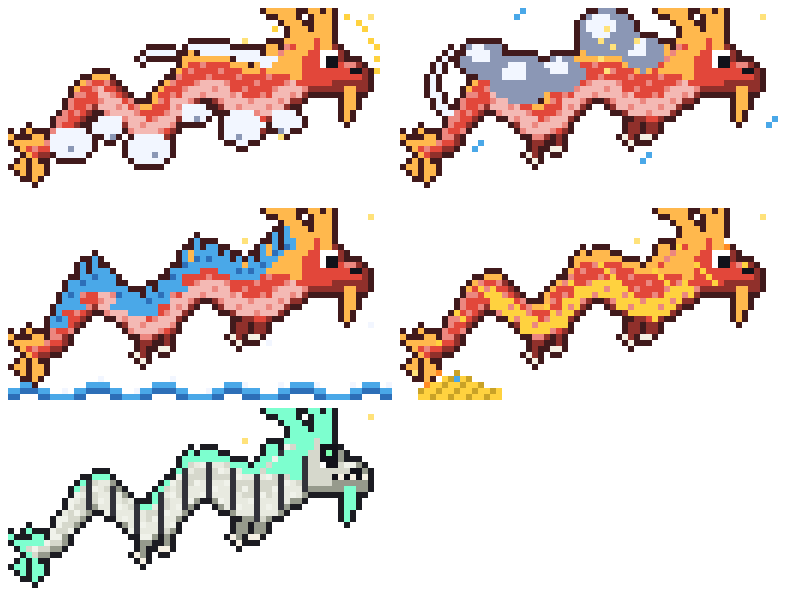
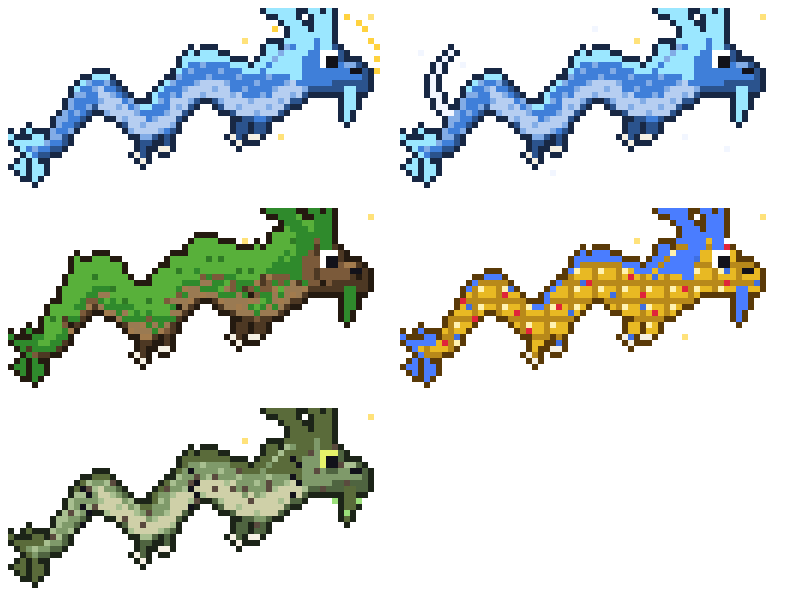
Spiritual wormholes, Earth burrow-and-flower, docs for the reworked final forms

diff --git a/src/RoamWindow.qml b/src/RoamWindow.qml
@@ -333,10 +333,14 @@ PanelWindow {
     else if (mood === "hungry") pool = ["rumble"]
     else if (mood === "playful") pool = flying ? ["zoom", "spin", "loop", "smokering"] : ["zoom", "spin", "smokering"]
     else pool = flying ? ["spin", "loop", "smokering"] : ["spin", "smokering"]
+    if (pet.stage >= 3 && pet.form === "earth" && mood !== "sleepy" && mood !== "hungry") pool = pool.concat(["burrow"])
+    if (pet.stage >= 3 && pet.form === "spiritual" && mood !== "sleepy" && mood !== "hungry") pool = pool.concat(["wormhole", "wormhole"])
     // Tricks you have reacted to before are picked more often (the learning layer).
     judgeTrick()
     lastCtx = pet.learnCtx((posX + spriteW / 2) / Math.max(1, width))
     trick = Learner.TRICKS.indexOf(pool[0]) >= 0 ? Learner.pickTrick(pet.prefs, pool, lastCtx) : pool[0]
+    if (trick === "wormhole") { trick = ""; lastTrick = ""; startWormhole(); return }
+    if (trick === "burrow") { trick = ""; lastTrick = ""; startBurrow(false); return }
     lastTrick = trick; lastTrickEnd = 0; trickLikedYet = false
     trickT = 0
     trickDur = { spin: 0.9, loop: 1.5, zoom: 3.0, yawn: 2.2, rumble: 1.3, smokering: 2.0 }[trick]
@@ -456,6 +460,130 @@ PanelWindow {
       }
     } else { bloatScale = 1; trickRot = 0; trickDx = 0; trickDy = 0; action = "sit"; frame = 0; lastBrainMs = 0 }
   }
+
+  // --- wormholes (Spiritual Dragon): it steps into a grey swirl and comes out somewhere far across the screen ---
+  property int wormPhase: -1           // -1 none | 0 open | 1 going in | 2 switch | 3 coming out | 4 close
+  property real wormT: 0
+  property real portalA: 0             // how open each wormhole is
+  property real portalB: 0
+  property real ax: 0
+  property real ay: 0
+  property real bx: 0
+  property real by: 0
+  function startWormhole() {
+    var margin = 80
+    ax = Math.max(margin, Math.min(width - margin, posX + spriteW / 2 + dir * spriteW * 0.7))
+    ay = Math.max(margin, Math.min(height - margin, posY + spriteH / 2))
+    // the exit is far away: at least 45% of the screen across
+    var far = []
+    for (var i = 0; i < 12; i++) {
+      var x = margin + Math.random() * (width - 2 * margin)
+      if (Math.abs(x - ax) >= width * 0.45) far.push(x)
+    }
+    bx = far.length ? far[Math.floor(Math.random() * far.length)] : (ax < width / 2 ? width - margin : margin)
+    by = height * (0.2 + Math.random() * 0.55)
+    wormPhase = 0; wormT = 0; portalA = 0; portalB = 0; action = "worm"; frame = 0
+    velX = 0; velY = 0; targetX = 0; targetY = 0
+    pet.say(Phrases.pick(["Hold on tight.", "Opening a wormhole...", "I know a shortcut."]))
+  }
+  function cancelWormhole() {
+    if (wormPhase < 0) return
+    wormPhase = -1; portalA = 0; portalB = 0; bloatScale = 1
+  }
+  function stepWorm(dt) {
+    wormT += dt
+    var e = function(u) { u = Math.max(0, Math.min(1, u)); return u * u * (3 - 2 * u) }
+    if (wormPhase === 0) {                                        // the near wormhole opens
+      portalA = e(wormT / 0.55); dir = ax > posX + spriteW / 2 ? 1 : -1
+      if (wormT >= 0.7) { wormPhase = 1; wormT = 0; wx0 = posX; wy0 = posY }
+    } else if (wormPhase === 1) {                                 // it dives into it, shrinking as it goes
+      var u = e(wormT / 1.0)
+      posX = wx0 + (ax - spriteW / 2 - wx0) * u; posY = wy0 + (ay - spriteH / 2 - wy0) * u
+      bloatScale = 1 - 0.86 * u
+      if (wormT >= 1.05) { wormPhase = 2; wormT = 0 }
+    } else if (wormPhase === 2) {                                 // it is gone; the far wormhole opens as the near one closes
+      bloatScale = 0.02
+      posX = bx - spriteW / 2; posY = by - spriteH / 2
+      portalA = 1 - e(wormT / 0.45); portalB = e(wormT / 0.5)
+      dir = bx < width / 2 ? 1 : -1
+      if (wormT >= 0.55) { wormPhase = 3; wormT = 0 }
+    } else if (wormPhase === 3) {                                 // and out it comes, growing back
+      var v = e(wormT / 1.0)
+      bloatScale = 0.14 + 0.86 * v
+      posX = bx - spriteW / 2 + dir * spriteW * 0.3 * v; posY = by - spriteH / 2
+      if (wormT >= 1.05) { wormPhase = 4; wormT = 0; bloatScale = 1; pet.say(Phrases.pick(["Ta-da! Over here!", "That was fun. Again?", "Made it. Nothing to see here."])) }
+    } else if (wormPhase === 4) {
+      portalB = 1 - e(wormT / 0.5)
+      if (wormT >= 0.55) { wormPhase = -1; portalB = 0; action = "sit"; frame = 0; lastBrainMs = 0; nextTrickAt = Date.now() + 25000 + Math.random() * 30000 }
+    }
+    posX = Math.max(-spriteW, Math.min(width, posX)); posY = Math.max(-spriteH, Math.min(height, posY))
+  }
+  property real wx0: 0
+  property real wy0: 0
+
+  // --- burrowing (Earth Dragon): it spins in on itself, dives straight down and sleeps underground; a flower
+  //     marks the spot, and withers when it comes up somewhere else ---
+  property int burrowPhase: -1         // -1 none | 0 spin | 1 dive | 2 underground | 3 erupt | 4 flower withers
+  property real burrowT: 0
+  property bool burrowRest: false      // true: stay under until its rest is over
+  property bool burrowHidden: false
+  property bool flowerOn: false
+  property bool flowerWither: false
+  property real flowerX: 0
+  property real bx0: 0
+  property real by0: 0
+  property real exitX: 0
+  function startBurrow(forRest) {
+    burrowRest = forRest; burrowPhase = 0; burrowT = 0; burrowHidden = false; action = "burrow"; frame = 0
+    velX = 0; velY = 0; targetX = 0; targetY = 0; bx0 = posX; by0 = posY
+    pet.say(Phrases.pick(["Time to dig in.", "Down I go.", "Back to the roots."]))
+  }
+  function cancelBurrow() {
+    if (burrowPhase < 0) return
+    burrowPhase = -1; burrowHidden = false; flowerOn = false; flowerWither = false; trickRot = 0; bloatScale = 1
+  }
+  function stepBurrow(dt) {
+    burrowT += dt
+    var e = function(u) { u = Math.max(0, Math.min(1, u)); return u * u * (3 - 2 * u) }
+    var ground = floorY
+    if (burrowPhase === 0) {                                      // it coils and spins in on itself
+      var u = e(burrowT / 1.3)
+      trickRot = 720 * u * dir; bloatScale = 1 - 0.42 * u
+      posY = by0 + (ground - by0) * e(burrowT / 0.6)
+      if (burrowT >= 1.35) { burrowPhase = 1; burrowT = 0; burrowFxSet() }
+    } else if (burrowPhase === 1) {                               // then shoots straight down into the ground
+      var t = burrowT / 0.7
+      trickRot = 90 * dir * e(burrowT / 0.15)
+      posY = ground + t * t * spriteH * 2.4
+      if (burrowT >= 0.15 && !flowerOn) { flowerOn = true; flowerWither = false; flowerX = exitX }
+      if (burrowT >= 0.75) { burrowPhase = 2; burrowT = 0; burrowHidden = true }
+    } else if (burrowPhase === 2) {                               // asleep underground
+      var done = burrowRest ? pet.restPhase !== "resting" : burrowT > 10
+      if (done) {
+        var far = []
+        for (var i = 0; i < 12; i++) {
+          var x = spriteW / 2 + Math.random() * (width - spriteW)
+          if (Math.abs(x - flowerX) >= width * 0.3) far.push(x)
+        }
+        var ex = far.length ? far[Math.floor(Math.random() * far.length)] : (flowerX < width / 2 ? width * 0.8 : width * 0.2)
+        posX = Math.max(minX, Math.min(maxX, ex - spriteW / 2))
+        dir = posX + spriteW / 2 < width / 2 ? 1 : -1
+        burrowPhase = 3; burrowT = 0; burrowHidden = false; flowerWither = true
+        puffFx.puff(posX + spriteW / 2, height - 8, 0, 14, ["#6b4f30", "#8a6a44", "#4d3823", "#a27b4d"], 2.4)
+      }
+    } else if (burrowPhase === 3) {                               // it erupts from the ground somewhere else
+      var v = e(burrowT / 1.2)
+      trickRot = -90 * dir * (1 - v); bloatScale = 0.58 + 0.42 * v
+      posY = ground + (1 - v) * spriteH * 2.4 - Math.sin(Math.PI * v) * spriteH * 0.6
+      if (burrowT >= 1.25) { burrowPhase = 4; burrowT = 0; trickRot = 0; bloatScale = 1; posY = ground; pet.say(Phrases.pick(["Ahh, fresh air. Well, fresh soil.", "Good nap. Roots feel great.", "Up and at it."])) }
+    } else if (burrowPhase === 4) {
+      if (burrowT >= 1.7) {
+        burrowPhase = -1; flowerOn = false; flowerWither = false; action = "sit"; frame = 0; lastBrainMs = 0
+        nextTrickAt = Date.now() + 25000 + Math.random() * 30000
+      }
+    }
+  }
+  function burrowFxSet() { exitX = posX + spriteW / 2 }
 
   // --- gifts -----------------------------------------------------------------
   property var gift: null
@@ -659,6 +787,11 @@ PanelWindow {
     if (!flying && support) { beginJump(floorSurface, spotX); return true }
     if (Math.abs(posX + spriteW / 2 - (spotX + spriteW / 2)) > 1) dir = spotX > posX ? 1 : -1
     var restY = (pet.stage >= 3 && pet.form === "celestial") ? Math.max(minY, height * 0.22) : curlY      // the sky dragon sleeps on a cloud, up in the sky
+    if (pet.stage >= 3 && pet.form === "earth") {
+      // the Earth Dragon does not curl up: it spins into the ground and sleeps underground
+      if (steer(spotX, curlY, speed)) { pet.restArrived(); startBurrow(true) }
+      return true
+    }
     if (steer(spotX, restY, speed)) {
       posX = spotX; posY = restY
       velX = 0; velY = 0
@@ -796,6 +929,8 @@ PanelWindow {
     if (!pet.roamEnabled || pet.evolving) return
     if (action === "held") return
     if (action === "bloat") { stepBloat(dt); return }
+    if (action === "worm") { stepWorm(dt); return }
+    if (action === "burrow") { stepBurrow(dt); return }
     if (trick !== "") { stepTrick(dt); return }
 
     if (pet.sleeping && pet.restPhase === "") pet.startRest()
@@ -906,7 +1041,7 @@ PanelWindow {
     posY = Math.max(minY, Math.min(maxY, posY))
   }
 
-  readonly property bool moving: action === "walk" || action === "fly" || action === "jump" || action === "fall" || action === "fire" || action === "bloat" || trick !== ""
+  readonly property bool moving: action === "walk" || action === "fly" || action === "jump" || action === "fall" || action === "fire" || action === "bloat" || action === "worm" || action === "burrow" || trick !== ""
   Timer {
     interval: (win.moving || win.foodsFalling) ? 33 : ((win.action === "curl" || !win.pet.roamEnabled) ? 1000 : 100)
     repeat: true
@@ -994,6 +1129,10 @@ PanelWindow {
   PoopSlot { id: p4; idx: 4 }
   PoopSlot { id: p5; idx: 5 }
 
+  Flower { id: flower; visible: win.flowerOn; withered: win.flowerWither; cell: win.scale; x: win.flowerX - width / 2; y: win.height - height - 2 }
+  Wormhole { id: holeA; cell: win.scale; open: win.portalA; x: win.ax - width / 2; y: win.ay - height / 2 }
+  Wormhole { id: holeB; cell: win.scale; open: win.portalB; x: win.bx - width / 2; y: win.by - height / 2 }
+
   DragonSprite {
     id: sprite
     px: win.scale
@@ -1004,7 +1143,7 @@ PanelWindow {
     action: win.anim
     frame: win.frame
     mirrored: win.dir === -1
-    visible: win.pet.roamEnabled && !win.pet.evolving
+    visible: win.pet.roamEnabled && !win.pet.evolving && !win.burrowHidden
     x: (win.pet.roamEnabled && !win.pet.evolving) ? win.posX + win.trickDx : -3000
     y: win.posY + win.trickDy - (win.bloatScale - 1) * win.spriteH / 2
     scale: win.bloatScale
@@ -1035,7 +1174,7 @@ PanelWindow {
           if (Math.abs(p.x - grabX - win.posX) < 6 && Math.abs(p.y - grabY - win.posY) < 6) return
           dragging = true
           win.pet.cancelRest()
-          win.bloatScale = 1; win.trick = ""; win.trickRot = 0; win.trickDx = 0; win.trickDy = 0      // picking it up ends any trick
+          win.cancelWormhole(); win.cancelBurrow(); win.bloatScale = 1; win.trick = ""; win.trickRot = 0; win.trickDx = 0; win.trickDy = 0      // picking it up ends any trick
           win.action = "held"
           win.support = null
         }
@@ -1121,7 +1260,7 @@ PanelWindow {
 
   Rectangle {
     id: bubble
-    visible: win.pet.speech !== "" && win.pet.roamEnabled && !win.pet.evolving
+    visible: win.pet.speech !== "" && win.pet.roamEnabled && !win.pet.evolving && !win.burrowHidden
     color: Color.popups.background
     border.color: Color.popups.border
     border.width: 1

diff --git a/src/Flower.qml b/src/Flower.qml
@@ -1,0 +1,46 @@
+import QtQuick
+
+// A small flower that marks where the Earth Dragon went underground. It grows when the dragon
+// dives, and withers away when the dragon comes up somewhere else. Painted once per state.
+Item {
+  id: root
+  property bool withered: false
+  property real cell: 3
+  width: 12 * cell; height: 16 * cell
+  transformOrigin: Item.Bottom
+
+  onVisibleChanged: {
+    if (visible) { rotation = 0; opacity = 1; scale = 0; growAnim.restart() }
+    else { growAnim.stop(); wiltAnim.stop() }
+  }
+  onWitheredChanged: { canvas.requestPaint(); if (withered) wiltAnim.restart() }
+
+  NumberAnimation { id: growAnim; target: root; property: "scale"; from: 0; to: 1; duration: 600; easing.type: Easing.OutBack }
+  ParallelAnimation {
+    id: wiltAnim
+    NumberAnimation { target: root; property: "rotation"; to: 32; duration: 1300; easing.type: Easing.InQuad }
+    SequentialAnimation {
+      PauseAnimation { duration: 900 }
+      NumberAnimation { target: root; property: "opacity"; to: 0; duration: 600 }
+    }
+  }
+
+  Canvas {
+    id: canvas
+    anchors.fill: parent
+    renderTarget: Canvas.Image
+    renderStrategy: Canvas.Immediate
+    onPaint: {
+      var ctx = getContext("2d"), p = root.cell, w = root.withered
+      ctx.clearRect(0, 0, width, height)
+      var petal = w ? "#8a6a4a" : "#ff8fb8", core = w ? "#6b5636" : "#ffd23f", stem = w ? "#7a6a3a" : "#4fa832", leaf = w ? "#8c7a3f" : "#6fc94a", dark = w ? "#5a4a26" : "#2f7a25"
+      function cell(x, y, c) { ctx.fillStyle = c; ctx.fillRect(x * p, y * p, p + 0.5, p + 0.5) }
+      var petals = [[5,0],[6,0],[3,1],[4,1],[5,1],[6,1],[7,1],[8,1],[2,2],[3,2],[4,2],[7,2],[8,2],[9,2],[3,3],[4,3],[7,3],[8,3],[4,4],[5,4],[6,4],[7,4]]
+      for (var i = 0; i < petals.length; i++) cell(petals[i][0] + 0, petals[i][1] + 0, petal)
+      cell(5, 2, core); cell(6, 2, core); cell(5, 3, core); cell(6, 3, core)
+      for (var y = 5; y < 16; y++) { cell(5, y, stem); cell(6, y, dark) }
+      var leaves = [[3,8],[4,8],[2,7],[3,7],[7,10],[8,10],[9,9],[8,9]]
+      for (var j = 0; j < leaves.length; j++) cell(leaves[j][0], leaves[j][1], leaf)
+    }
+  }
+}

diff --git a/src/Wormhole.qml b/src/Wormhole.qml
@@ -1,0 +1,48 @@
+import QtQuick
+
+// A wormhole: a tall grey oval with a swirl turning inside it. It scales open and shut,
+// and only repaints (about 15 times a second) while it is at least partly open.
+Canvas {
+  id: root
+  property real open: 0                // 0 = closed, 1 = fully open
+  property real cell: 3
+  property real t: 0
+  readonly property int cols: 24
+  readonly property int rows: 40
+  width: cols * cell; height: rows * cell
+  visible: open > 0.01
+  scale: open
+  opacity: Math.min(1, open * 1.4)
+  renderTarget: Canvas.Image
+  renderStrategy: Canvas.Immediate
+
+  Timer {
+    interval: 66
+    repeat: true
+    running: root.visible
+    onTriggered: { root.t += 0.28; root.requestPaint() }
+  }
+
+  onPaint: {
+    var ctx = getContext("2d")
+    ctx.clearRect(0, 0, width, height)
+    var rx = cols / 2, ry = rows / 2
+    for (var y = 0; y < rows; y++)
+      for (var x = 0; x < cols; x++) {
+        var dx = (x + 0.5 - rx) / rx, dy = (y + 0.5 - ry) / ry
+        var r = Math.sqrt(dx * dx + dy * dy)
+        if (r > 1) continue
+        var ang = Math.atan2(dy, dx)
+        var v = Math.sin(3 * ang + r * 9 - t)                 // the swirl: three arms winding in
+        var col
+        if (r > 0.86) col = v > 0 ? "#dfe3ee" : "#aab1c4"    // a bright rim
+        else if (r < 0.14) col = "#15171d"                    // the dark core
+        else if (v > 0.55) col = "#c9cfde"
+        else if (v > 0) col = "#8f97ab"
+        else if (v > -0.55) col = "#626a7e"
+        else col = "#3b4152"
+        ctx.fillStyle = col
+        ctx.fillRect(x * cell, y * cell, cell + 0.5, cell + 0.5)
+      }
+  }
+}

diff --git a/README.md b/README.md
@@ -71,13 +71,13 @@ At 600 XP the Emperor Dragon becomes one of four traditional Chinese dragon type
   <img src="docs/art/final-forms.png" alt="The five final forms: celestial, spiritual, earth, treasure and zombie" width="640">
 </p>
 
-| Form | Comes from | Look |
+| Form | Comes from | What it does |
 | --- | --- | --- |
-| **Celestial Dragon** (Tianlong) | Consistently good care, a strong bond, lots of petting | Rides on clouds, with a golden halo and a silk ribbon |
-| **Spiritual Dragon** (Shenlong) | Lots of play and won games of tag | A storm cloud on its back, lightning and rain |
-| **Earth Dragon** (Dilong) | Steady feeding and keeping its home tidy | Water fins along its back and a stream flowing beneath it |
-| **Treasure Dragon** (Fuzanglong) | Many badges and gifts, and plenty of rest | Coin scales, a gem in its brow and its hoard at its feet |
-| **zombie Dragon** | Neglect: low happiness for too long | Bones, ribs and ghost-green fire |
+| **Celestial Dragon** (Tianlong) | Consistently good care, a strong bond, lots of petting | A golden halo. It sleeps on a cloud, up in the sky. |
+| **Spiritual Dragon** (Shenlong) | Lots of play and won games of tag | A translucent spirit. It opens wormholes: a grey swirling oval that it dives into, coming out at a random spot far across the screen. |
+| **Earth Dragon** (Dilong) | Steady feeding and keeping its home tidy | Bark, vines and leaves. To rest, it spins in on itself, shoots straight down and sleeps underground; a flower pops up where it went in and withers when it comes out somewhere else. |
+| **Treasure Dragon** (Fuzanglong) | Many badges and gifts, and plenty of rest | A body of gold coins studded with rubies and sapphires. It sleeps on a pile of gold. |
+| **Zombie Dragon** | Neglect: low happiness for too long | Rotting and stitched. It never eats or sleeps, and can only groan. |
 
 <p align="center">
   <img src="docs/art/colors.png" alt="The Emperor Dragon in all seven colours" width="640"><br>

diff --git a/CHANGELOG.md b/CHANGELOG.md
@@ -2,7 +2,7 @@
 
 ## Unreleased
 
-- New final stage at 600 XP with five branching forms, decided by how the dragon was raised: Celestial (Tianlong), Spiritual (Shenlong), Earth (Dilong), Treasure (Fuzanglong), or a zombie Dragon if it was neglected. Each is a 64x32 pixel-art dragon, twice as long as the others.
+- New final stage at 600 XP with five branching forms, decided by how the dragon was raised: Celestial (Tianlong, sleeps on a cloud), Spiritual (Shenlong, a ghost that opens wormholes), Earth (Dilong, a tree that burrows and leaves a flower), Treasure (Fuzanglong, a body of gold coins and gems) or, if it was neglected, a Zombie Dragon that only groans. Each is a 64x32 pixel-art dragon, twice as long as the others.
 - Removed the dance tricks. New: on the last bite before it is full, the dragon swells like a balloon, floats upside down, then sighs out a big plume of smoke; and it can blow smoke rings.
 
 ## 0.2.2
